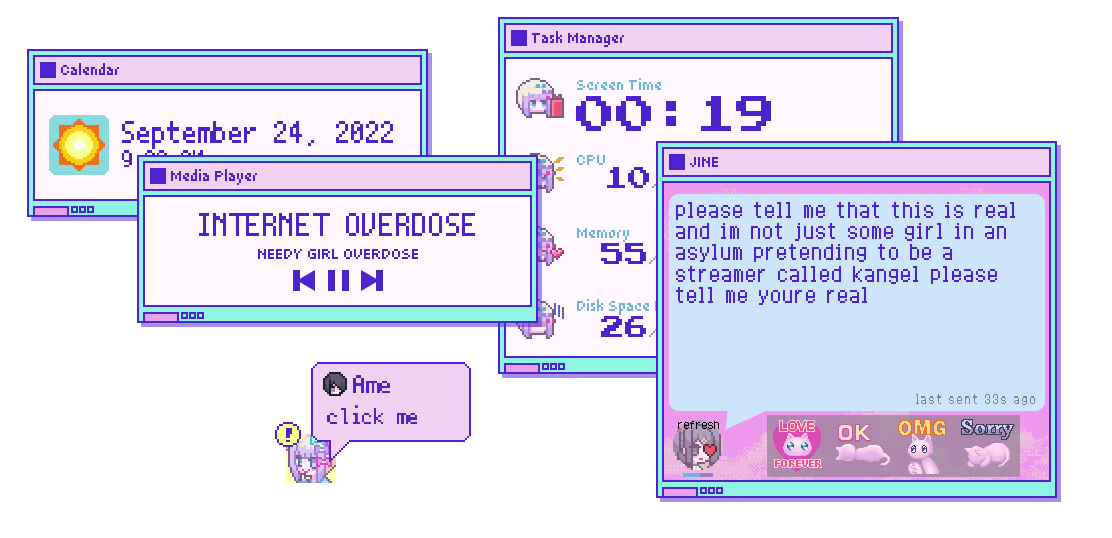
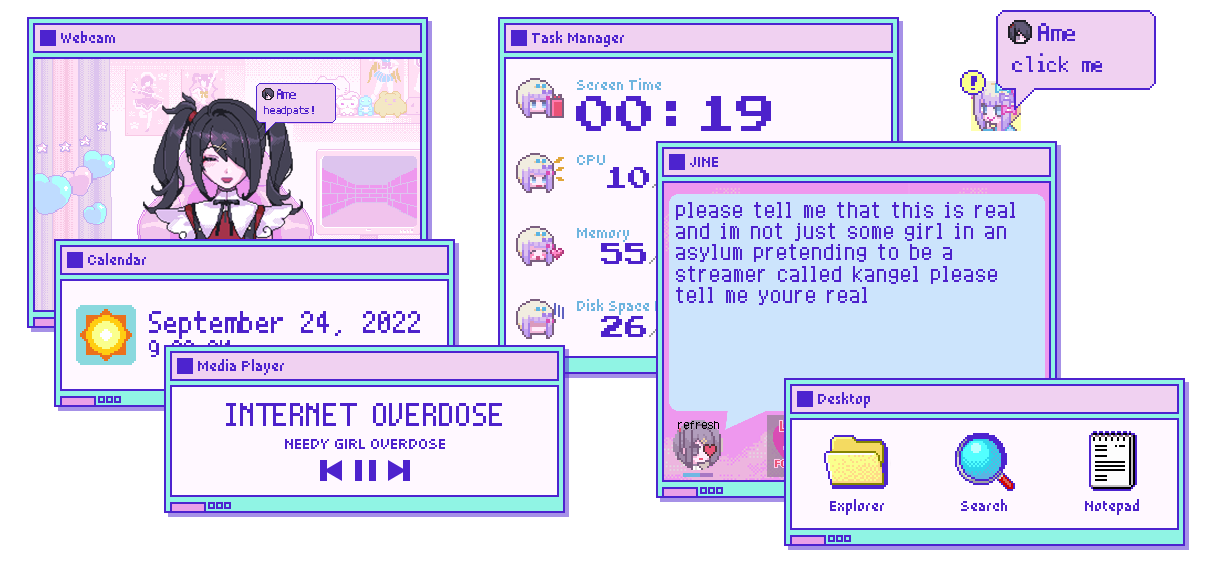
Updated README.md for Version 2.0

diff --git a/README.md b/README.md
@@ -1,40 +1,100 @@
 # Needy Streamer Overload Rainmeter Skins
-Rainmeter Skins inspired by the visual novel, [Needy Streamer Overload](https://store.steampowered.com/app/1451940/NEEDY_STREAMER_OVERLOAD/).
+Rainmeter Skins inspired by the visual novel, [NEEDY STREAMER OVERLOAD](https://store.steampowered.com/app/1451940/NEEDY_STREAMER_OVERLOAD/) (also known as NEEDY GIRL OVERDOSE).
 ![Features](Preview/Features.png)
 
-## Skins
-|Name|Skin|
-|-|-|
-|Task Manager|![Task Manager](Preview/Task%20Manager.png)|
-|JINE|![JINE](Preview/JINE.png)
-|Media Player|![Media Player](Preview/Media%20Player.png)
-|Calendar|![Calendar](Preview/Calendar.png)|
-|Recycle Bin|![Recycle Bin](Preview/Recycle%20Bin.png)
+# Skins
+- [Task Manager](#task-manager)
+- [Ame](#ame)
+- [JINE](#jine)
+- [Media Player](#media-player)
+- [Calendar](#calendar)
+    - [Weather Installation](#weather-installation)
+- [Desktop Icons](#desktop-icons)
+- [Trash Bin](#trash-bin)
 
-## Features
-- Task Manager shows information about your computer performance (Uptime, CPU, RAM, and Disk Space). It is heavily inspired by the Task Manager from the game.  
-![Task Manager from Game](Preview/Task%20Manager%20Game.png)
-  - Drive on the Disk Space portion can be changed on the `.ini` file.
-- JINE is a messaging app from the game. Ame will send you random messages, so please respond her with stickers!
-  - You can add and customize the messages inside the `script` folder.
-  - Skin only shows four stickers, but can be customized what emojis to show on the `.ini` file.
-  - You can also change how frequent Ame will send you messages.
-- Media Player shows what you are listening on **Spotify**.
-  - Current Bug: Play/Pause Button.
-- Calendar shows the current time and date.
-  - Will be planning to make weather icons soon!
-- Recycle Bin will give you enough dosage of Magic Paper...
-  - Right click to see what's inside... is it junk?
-- ![Ame](@Resources/Images/ame_pissed.png)
+# Features
+## Task Manager
+Task Manager shows information about your computer performance (Uptime, CPU, RAM, and Disk Space). It is heavily inspired by the Task Manager from the game.  
 
-## Warning
+Values also turn red when reaching the critical zone, so don't overwork your PC!
+
+![Task Manager from Game](Preview/Showcase/Task%20Manager%20Preview.gif)
+
+- Drive on the Disk Space portion can be changed on the `.ini` file.
+
+## Ame
+Ame-chan is on your desktop now, and she wants headpats from you!
+
+She will change depending on your computer's performance. She'll be stressed out as you stress your CPU too, so be cautious!
+
+![Ame](Preview/Showcase/Ame%20Preview.png)
+
+- Background also changes when reaching a number of Screen Time hours.
+
+## JINE
+JINE is a messaging app from the game. Ame will send you random messages, so please respond her with stickers!
+
+![JINE](Preview/Showcase/JINE%20Preview.gif)
+
+- You can add and customize the messages inside the [`script`](JINE/scripts/) folder.
+- Skin only shows four stickers, but can be customized what emojis to show on the `.ini` file.
+- You can also change how frequent Ame will send you messages.
+
+## Media Player
+Media Player shows what you are listening on **Spotify**.
+
+![Media Player](Preview/Showcase/Media%20Player%20Preview.gif)
+
+## Calendar
+Calendar shows the current time and date, together with the weather.
+
+Weather Information must be added by the user. Follow the [Weather Installation](#weather-installation) below.
+
+![Calendar](Preview/Showcase/Calendar%20Preview.png)
+
+### Weather Installation
+
+<img src="Preview\Weather%20Tutorial\1.png" alt="smilie pop" width="300"/><img src="Preview\Weather%20Tutorial\2.png" alt="smilie pop" width="300"/>
+
+<img src="Preview\Weather%20Tutorial\3.png" alt="smilie pop" width="300"/><img src="Preview\Weather%20Tutorial\4.png" alt="smilie pop" width="300"/>
+
+<!---
+1. Go to openweathermap.org.
+2. Search for your city.
+3. Copy the ID on the address bar.
+4. Register an account.
+5. Go to "My API Key" once finished registering.
+6. Copy your Default API key.
+7. Open the Calendar skin folder by right clicking the skin and selecting the first option.
+8. Open `settings.inc`.
+9. Paste your ID and API key there.
+--->
+
+## Desktop Icons
+A recreation of the desktop icons from the game. Pixel Icons! Now, you won't get bored with these.
+
+![Desktop Icon](Preview/Showcase/Desktop%20Icons%20Preview.png)
+
+- You can add your own icons by simply copy and pasting one folder and editing the `.ini` file.
+- Icons are available inside the [@Resources](@Resources/Images/Desktop%20Icons/) folder.
+
+## Trash Bin
+Trash Bin is just the Recycling Bin that looks like a Magic Paper.
+
+Hovering will show the size and the number of items inside the Trash Bin.
+
+![Trash Bin](Preview/Showcase/Trash%20Bin%20Preview.png)
+
+
+# Warning
 It may look cute, but the skin still contains dialogues that depicts self-harm, drugs, and sexual references. Any incidents happen will not be held responsible by the creator of this skin, so make sure you do NOT try any of the more extreme or depressing actions at home.
 
 ![Warning](Preview/Warning.png)
 
-## Credits
+# Credits
 - Frostworth#0529 from the NSO [Discord Server](https://discord.com/invite/JNGgNCX6Ue) for the JINE chats!
-
+- u/spuddddddddddddddddd for their [Ame Sprite Table](https://redd.it/urvi1x).
+- [Persona 5 Calendar Rainmeter Skin](https://github.com/Mive82/Persona-5-Calendar) for the OpenWeatherMap API Code.
 ---
 
-[<img src="Preview/sp.png" alt="smilie pop" width="150"/>](https://www.youtube.com/c/SmiliePop)[<img src="Preview/lezzthanthree.png" alt="lezzthanthree" width="150"/>](https://reddit.com/user/lezzthanthree)
+[<img src="Preview/Watermark/sp.png" alt="smilie pop" width="150"/>](https://www.youtube.com/c/SmiliePop)[<img src="Preview/Watermark/lezzthanthree.png" alt="lezzthanthree" width="150"/>](https://reddit.com/user/lezzthanthree)
